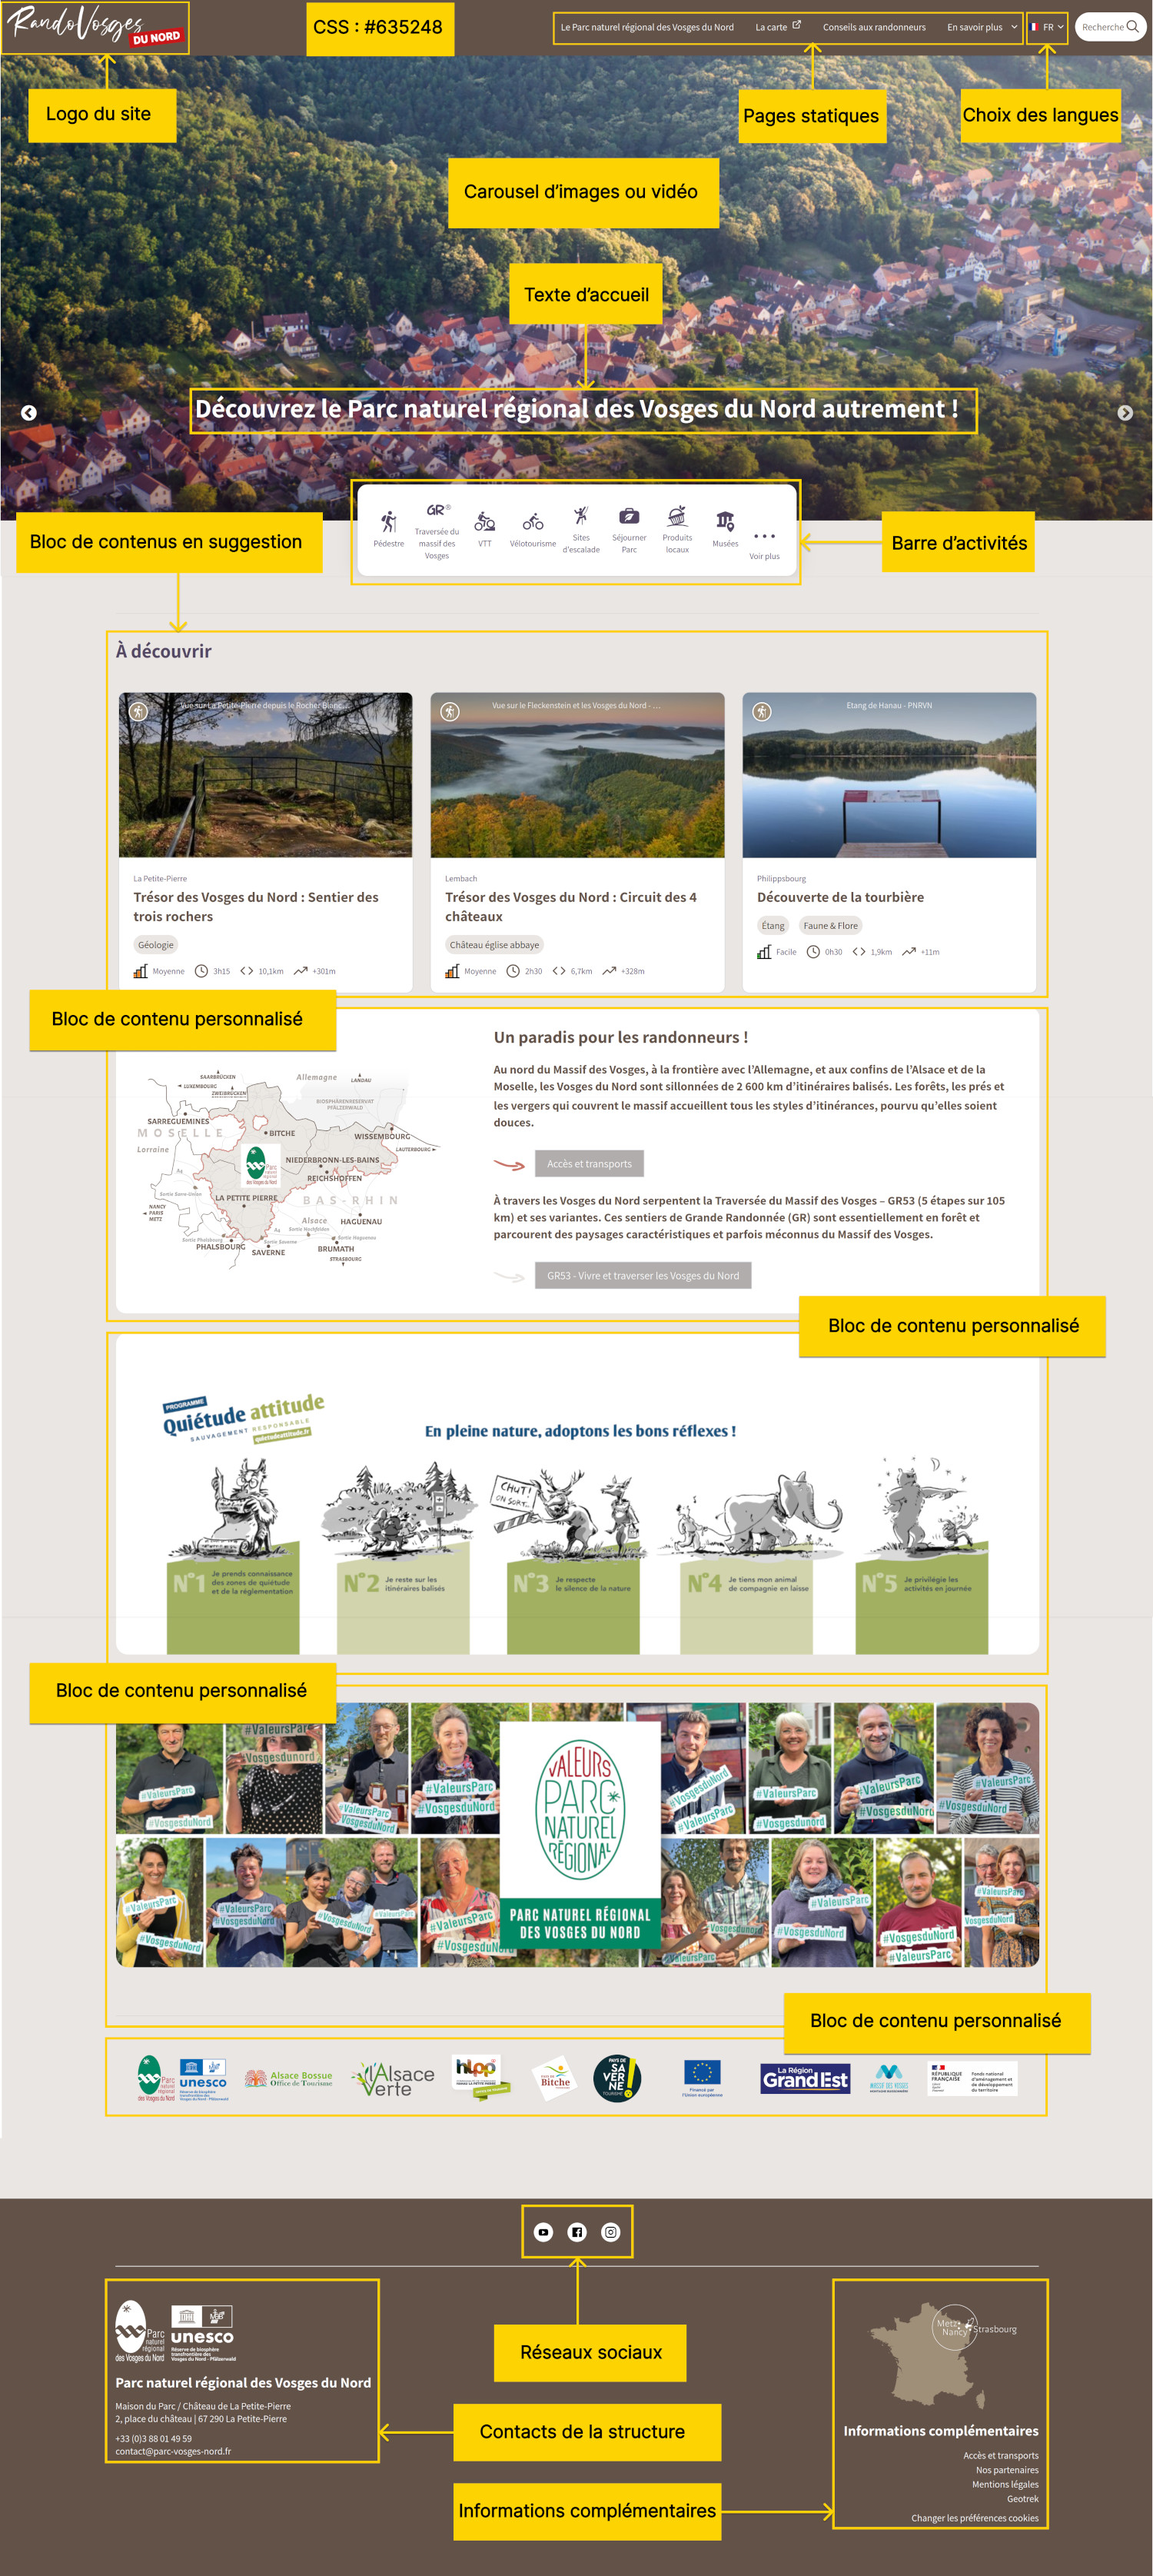
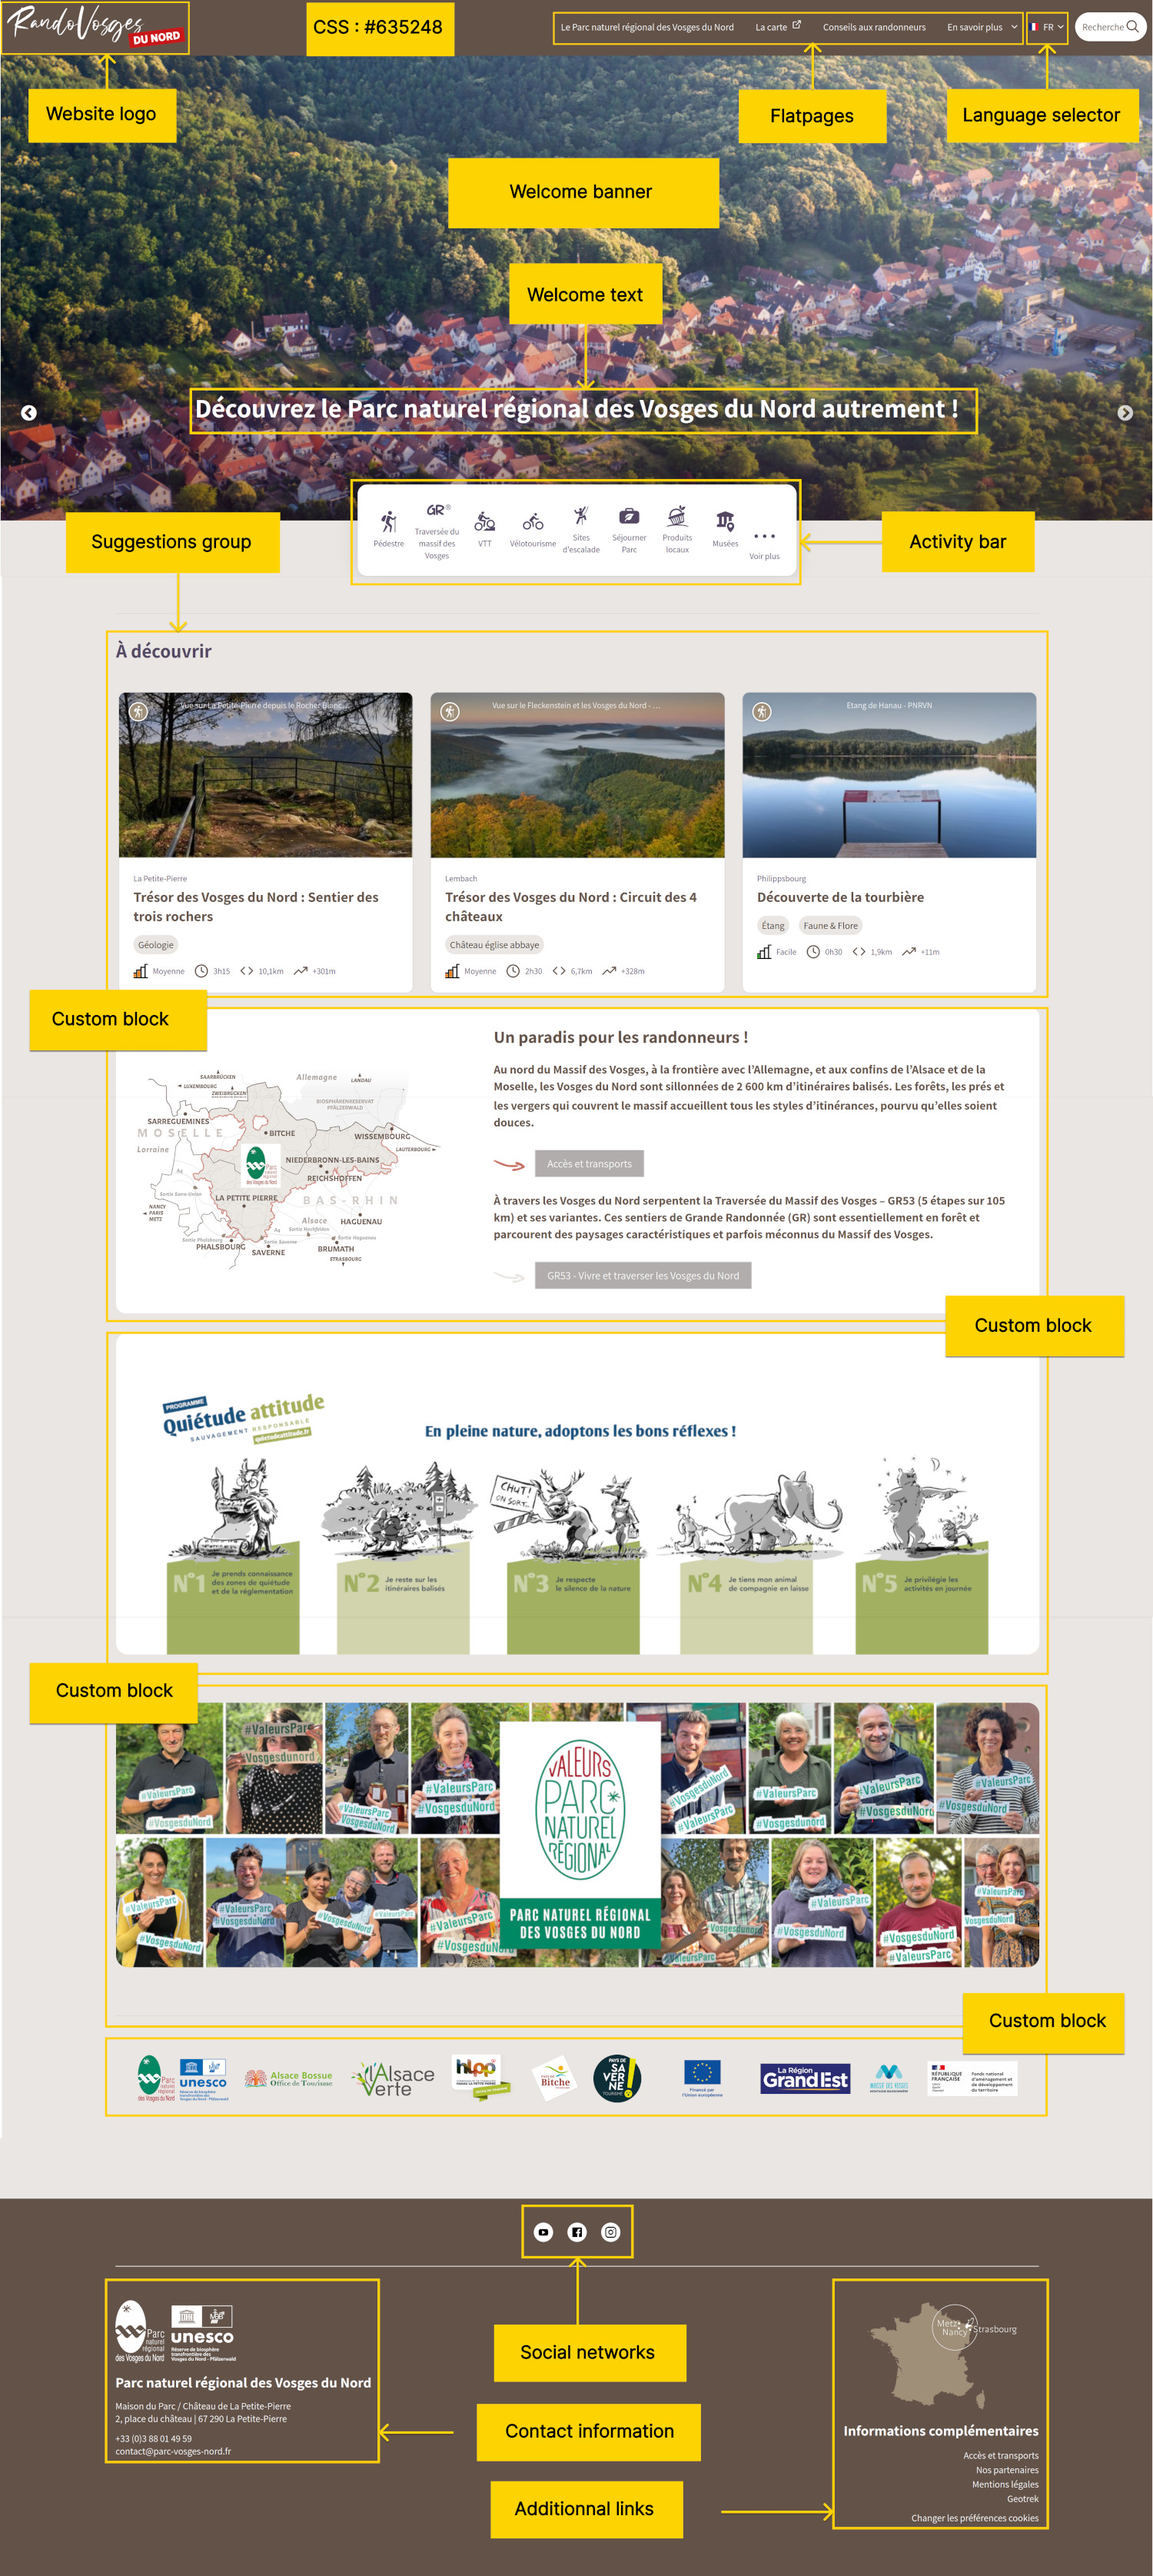
Update mockup in english

diff --git a/docs/customization/customization-introduction.md b/docs/customization/customization-introduction.md
@@ -86,13 +86,13 @@ Here is a list of elements that can be customized on the homepage:
 - menus and static page hierarchy ([configurable in Geotrek-admin](https://geotrek.readthedocs.io/en/latest/user-manual/static-pages.html#pages-statiques-menus))
 - language selector
 
-**Carousel**
+**Welcome banner**
 
-- images displayed in a rotating carousel or videos 
+- images displayed in a rotating carousel or a single image or a video
 
 **Activity Bar**
 
-- default activity bar enabled
+- activity bar is enabled by default
 
 **Hometop** (optional)
 
